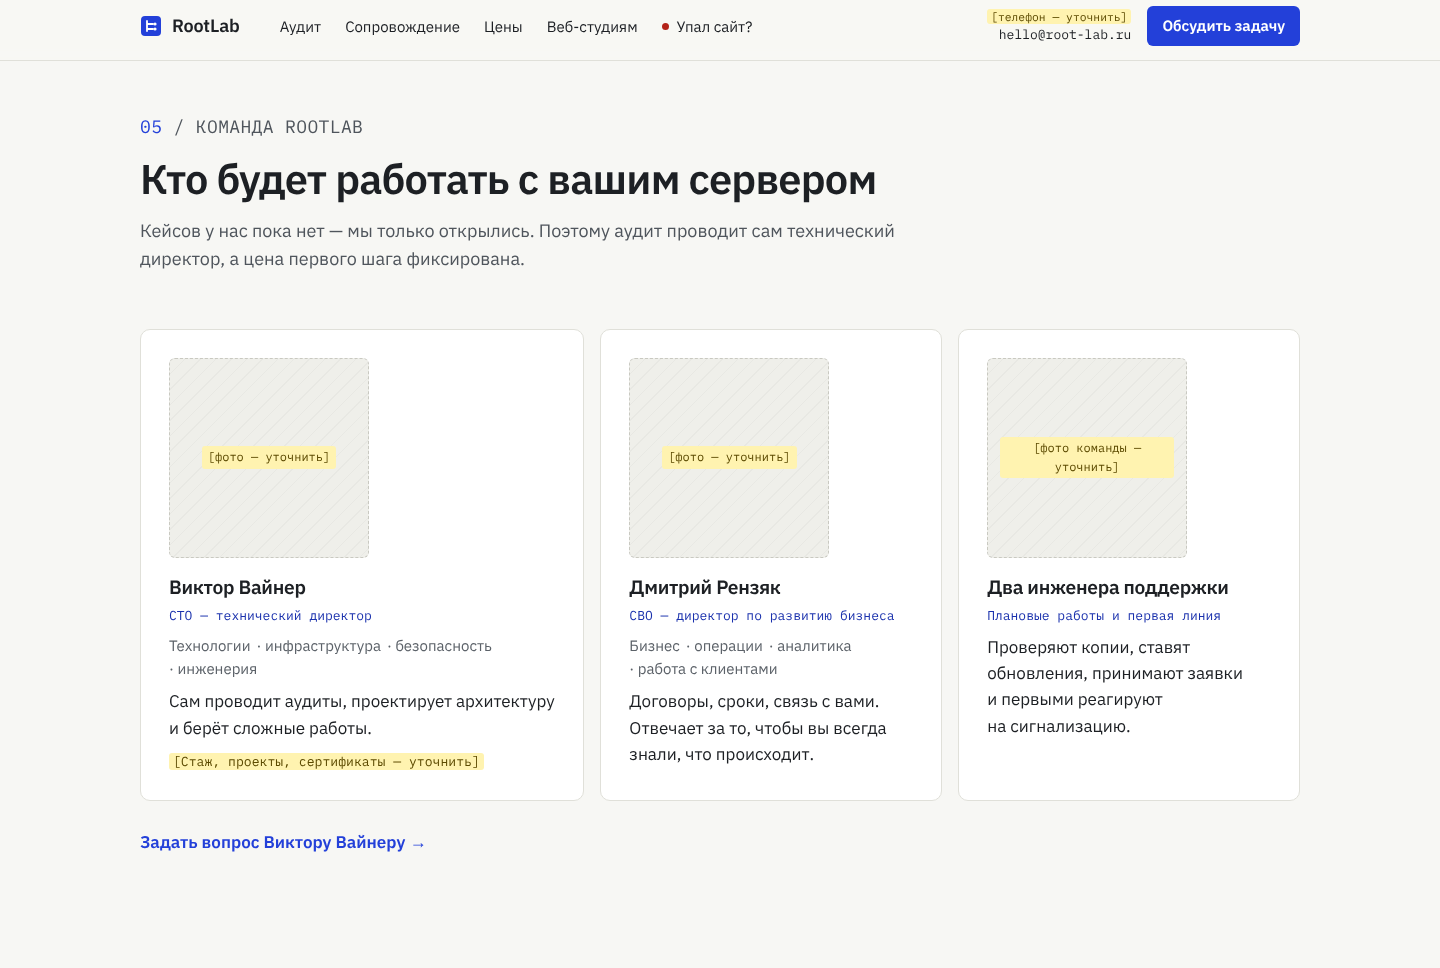
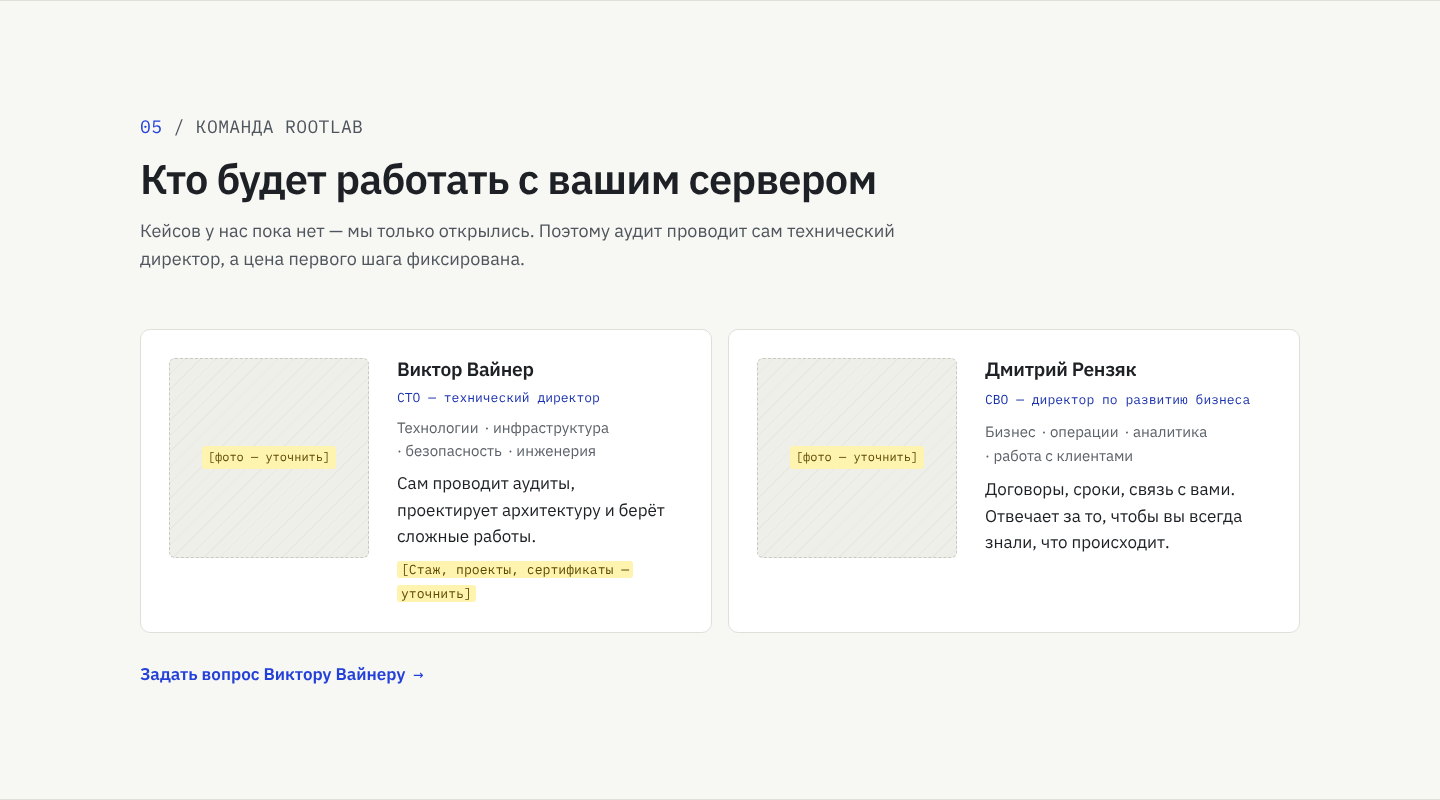
Команда: только Виктор Вайнер и Дмитрий Рензяк
Claude-Session: https://claude.ai/code/session_01QKoAWiBz5eNiT76wsZrEFx

diff --git a/src/data/site.ts b/src/data/site.ts
@@ -322,15 +322,6 @@ export const team = [
     details: '',
     photo: '', // [фото — уточнить]
   },
-  {
-    name: 'Два инженера поддержки',
-    surname: '',
-    role: 'Плановые работы и первая линия',
-    areas: '',
-    text: 'Проверяют копии, ставят обновления, принимают заявки и первыми реагируют на сигнализацию.',
-    details: '',
-    photo: '',
-  },
 ];
 
 /* ---------- Частые вопросы главной ---------- */
